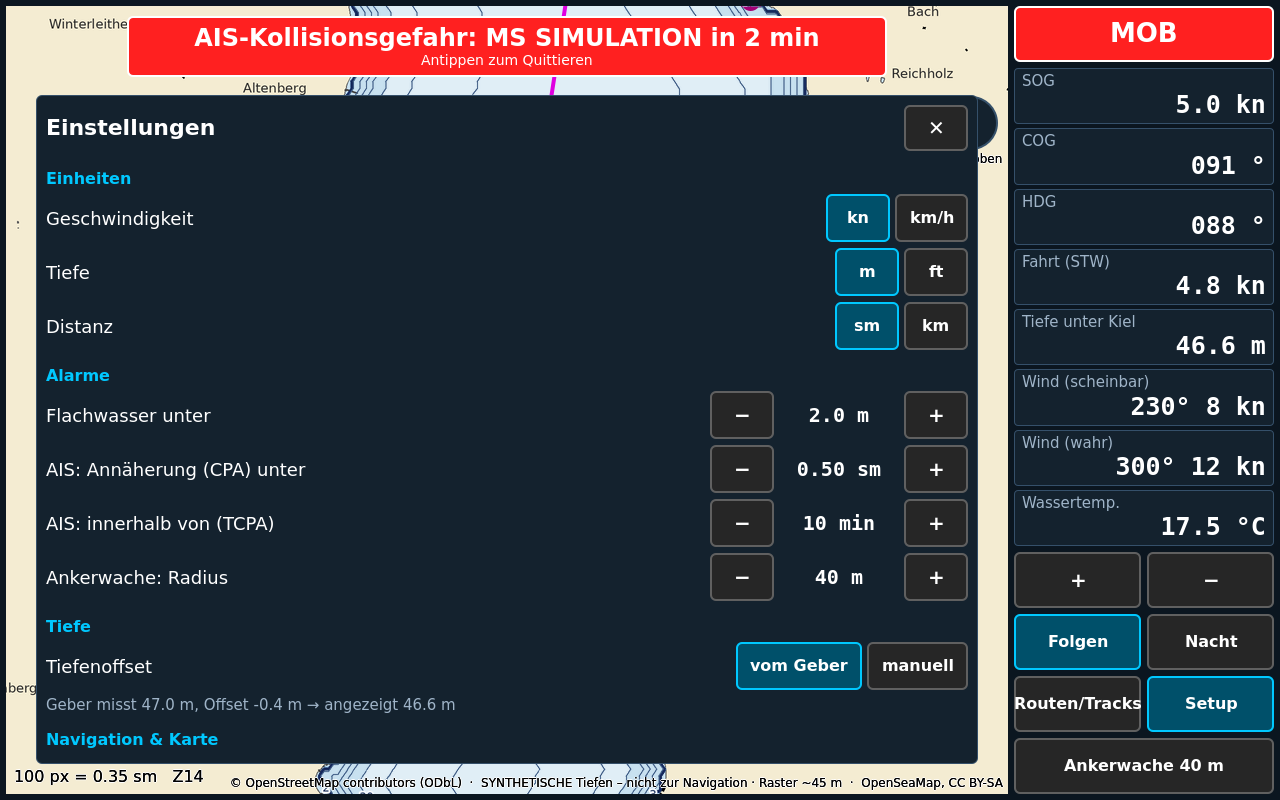
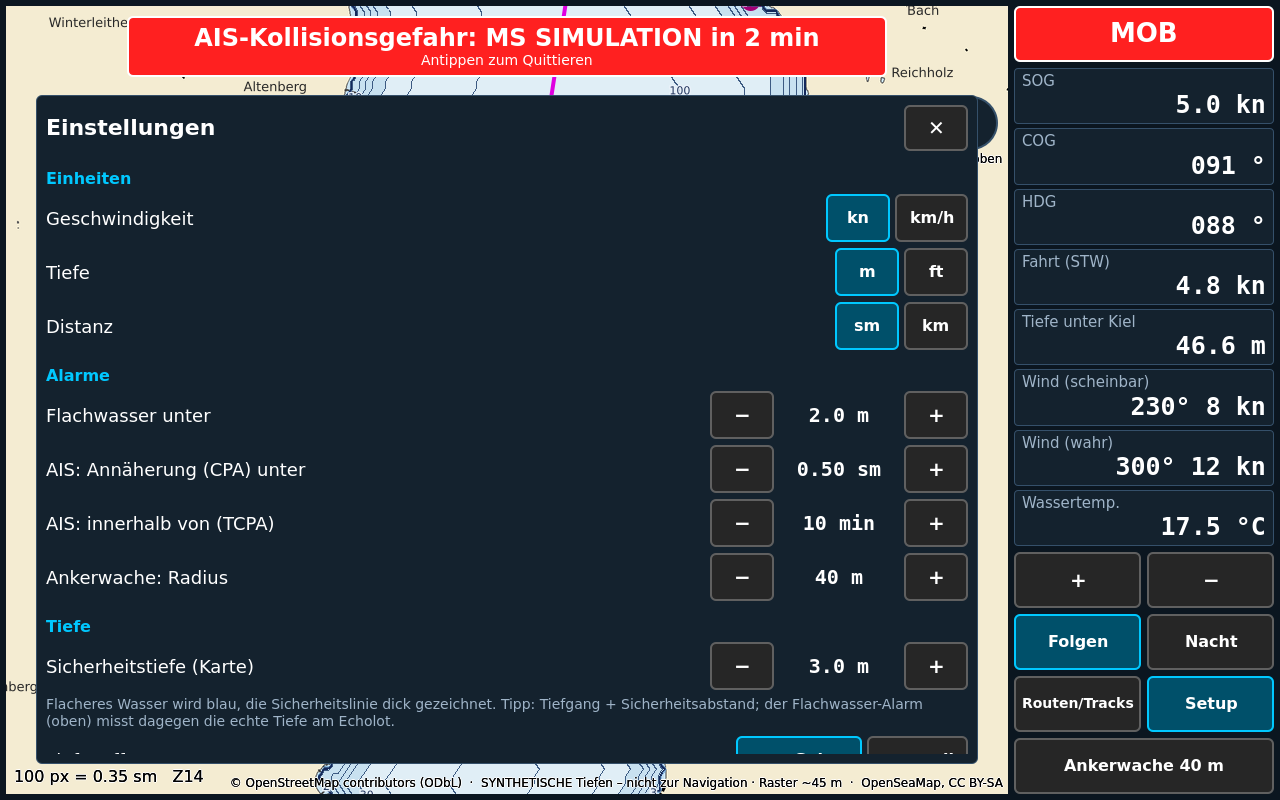
CI caches the labels sidecar; README/roadmap and screenshots for upright labels and safety depth

diff --git a/README.md b/README.md
@@ -40,8 +40,8 @@ Simulator mit Demo-Route (`--demo`), Grundkarte aus OpenStreetMap (`tools/make_b
 | Alarme | Ankerwache, Flachwasser, AIS-Kollision, GNSS-Ausfall, Tiefenausfall; Quittierung; **Ton über Lautsprecher und GPIO-Summer** (Alarm: Dauerpiepen, Warnung: Doppelpiep), Summer-Selbsttest beim Start | ✅ v0.2 |
 | Nachtmodus | Rote, abgedunkelte Darstellung | ✅ v0.1 |
 | Simulator | Boot auf dem Attersee mit AIS-Ziel | ✅ v0.1 |
-| Tiefenlinien | `tools/make_depth.py`: Tiefenlinien, Tiefenzahlen, Sicherheitslinie und Flachwasser-Schattierung aus EMODnet/GEBCO-Rastern oder S-57-Tiefenlinien (über GDAL) | ✅ v0.2 |
-| Kurs oben / Nord oben | Kartendrehung mit Hysterese, Nordpfeil zum Umschalten | ✅ v0.2 |
+| Tiefenlinien | `tools/make_depth.py`: Tiefenlinien, Tiefenzahlen, Flachwasser-Schattierung aus EMODnet/GEBCO-Rastern oder S-57-Tiefenlinien (über GDAL); Sicherheitstiefe in der App einstellbar (dicke Sicherheitslinie, wirkt sofort) | ✅ v0.2 |
+| Kurs oben / Nord oben | Kartendrehung mit Hysterese, Nordpfeil zum Umschalten; Ortsnamen und Tiefenzahlen bleiben aufrecht (abschaltbar) | ✅ v0.2 |
 | Vektorkarten (S-57 / Inland ENC) | vollständige Darstellung nach S-52 | 🔜 [Roadmap](docs/roadmap.md) |
 | Wegpunkte, Routen, Go-To, MOB | Wegpunkt per Langdruck auf die Karte, Routen-Editor, automatischer Wegpunktwechsel, XTE/BTW/DTW/TTG, Ankunftsalarm, MOB-Taste; Speicherung als GPX | ✅ v0.2 |
 | Track | Aufzeichnung mit Sprungfilter (vor Anker keine Punktwolke), Tagesdateien nur durch Anhängen (stromausfallsicher), Zeit aus dem GNSS, GPX-Export, Anzeige auf der Karte, frühere Tage einblendbar | ✅ v0.2 |

diff --git a/docs/roadmap.md b/docs/roadmap.md
@@ -7,7 +7,6 @@ Reihenfolge nach Nutzen für die Sicherheit an Bord, nicht nach Aufwand.
 - ~~Einstellungsseite~~ ✅ inkl. Tiefenoffset (vom Geber / manuell, wirkt sofort)
 - Missweisung aus Weltmagnetfeldmodell (WMM, aus OpenEFIS übernehmbar), wenn kein Gerät sie liefert
 - ~~Overzoom~~ ✅ (mit Warnhinweis, abschaltbar), ~~Kursoben-Darstellung~~ ✅
-- Beschriftungen bei Kurs oben aufrecht halten (drehen derzeit mit)
 - ~~Track-Aufzeichnung (GPX)~~ ✅, ~~Tracks früherer Tage~~ ✅; offen: Logbuch-Ansicht, NMEA-Mitschnitt für Replay
 - Raspberry-Pi-Image mit schreibgeschütztem Root-Dateisystem (wie OpenEFIS `image/`)
 
@@ -21,8 +20,7 @@ Reihenfolge nach Nutzen für die Sicherheit an Bord, nicht nach Aufwand.
 ## v0.4 – Vektorkarten
 - S-57 / Inland ENC lesen (GDAL) und in eigenes Kachel- oder Geometrieformat konvertieren
 - Darstellung nach S-52-Grundzügen: Tiefenflächen (DEPARE), Sicherheitskontur, Tonnen, Fahrrinnen
-- ~~Tiefenlinien/-schattierung aus EMODnet bzw. S-57-Tiefenlinien~~ ✅ (`tools/make_depth.py`)
-- Sicherheitstiefe in der App einstellbar (derzeit beim Erzeugen des Overlays)
+- ~~Tiefenlinien/-schattierung aus EMODnet bzw. S-57-Tiefenlinien~~ ✅ (`tools/make_depth.py`), ~~Sicherheitstiefe in der App~~ ✅, ~~aufrechte Beschriftungen~~ ✅
 
 ## später
 - NMEA 2000 senden mit Address Claim (ISO 11783-5) – erst mit Tests gegen echte Geräte ([ADR 0002](adr/0002-nmea2000-listen-only.md))
